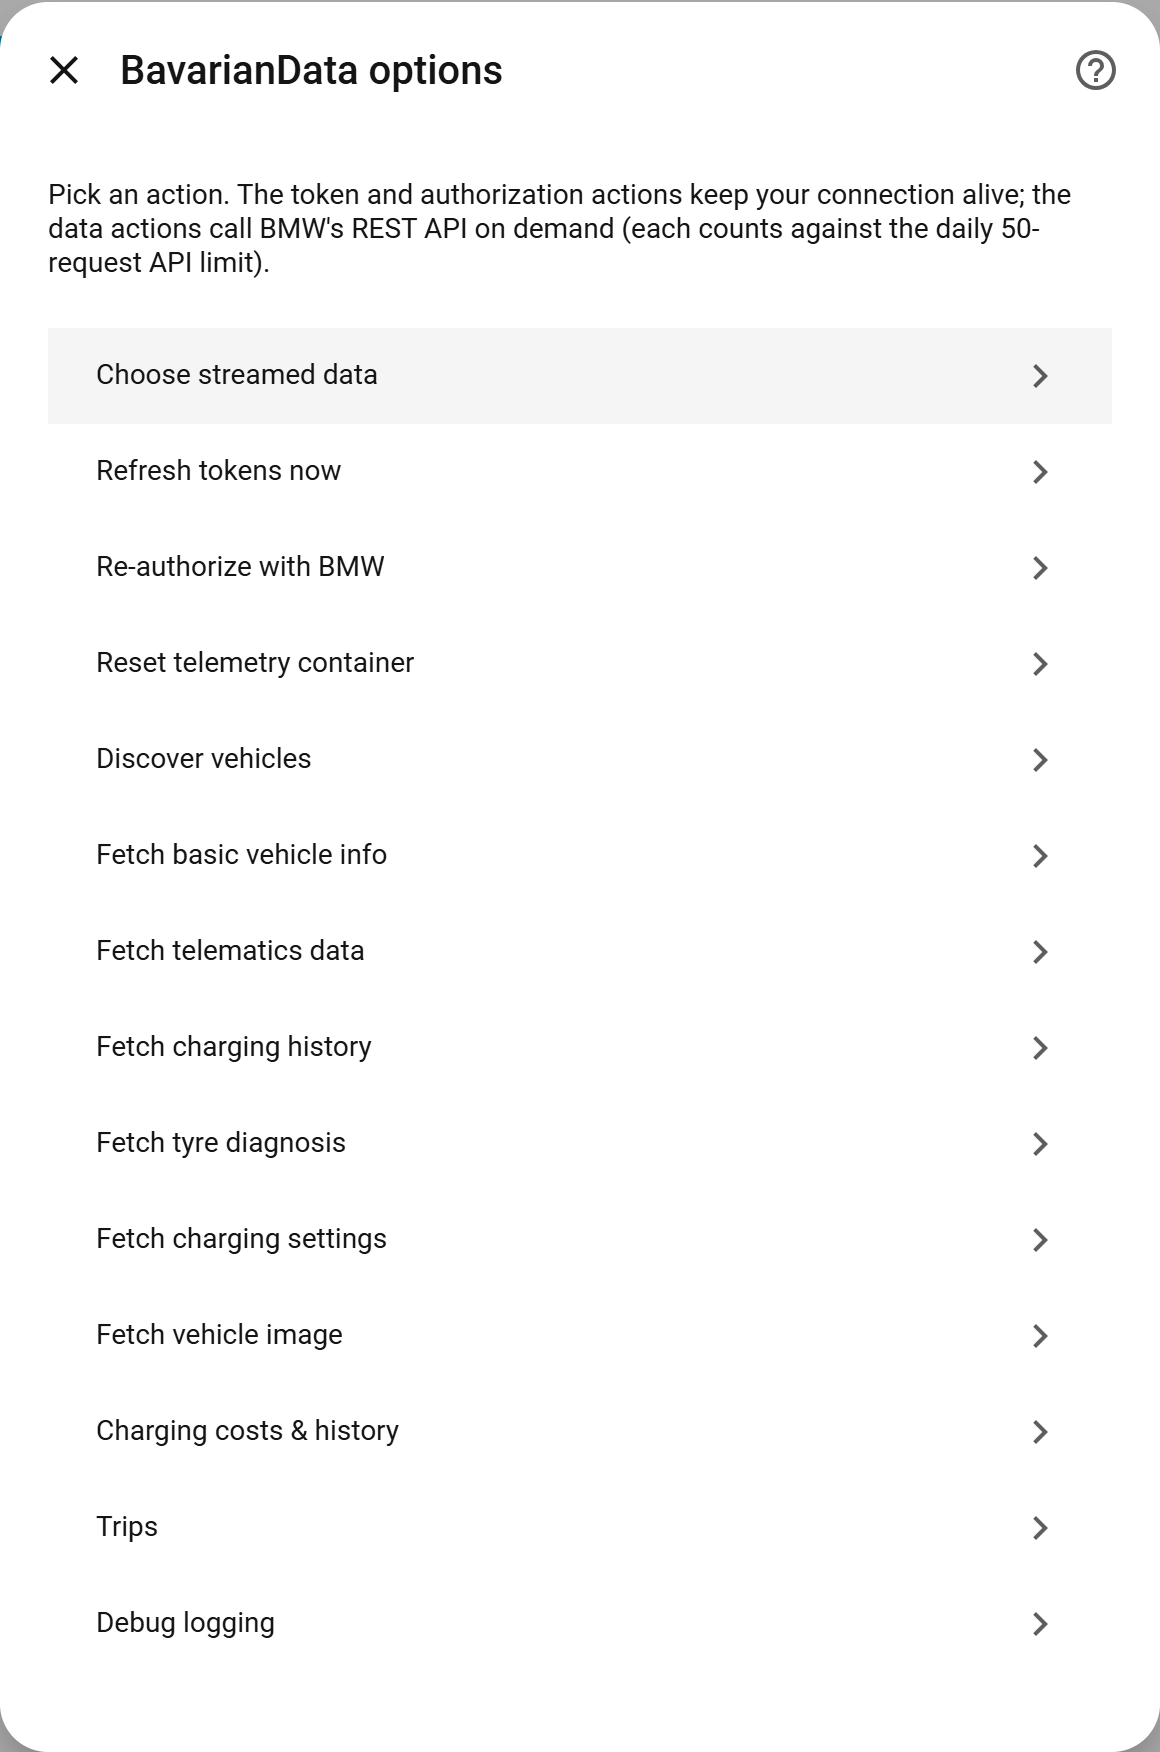
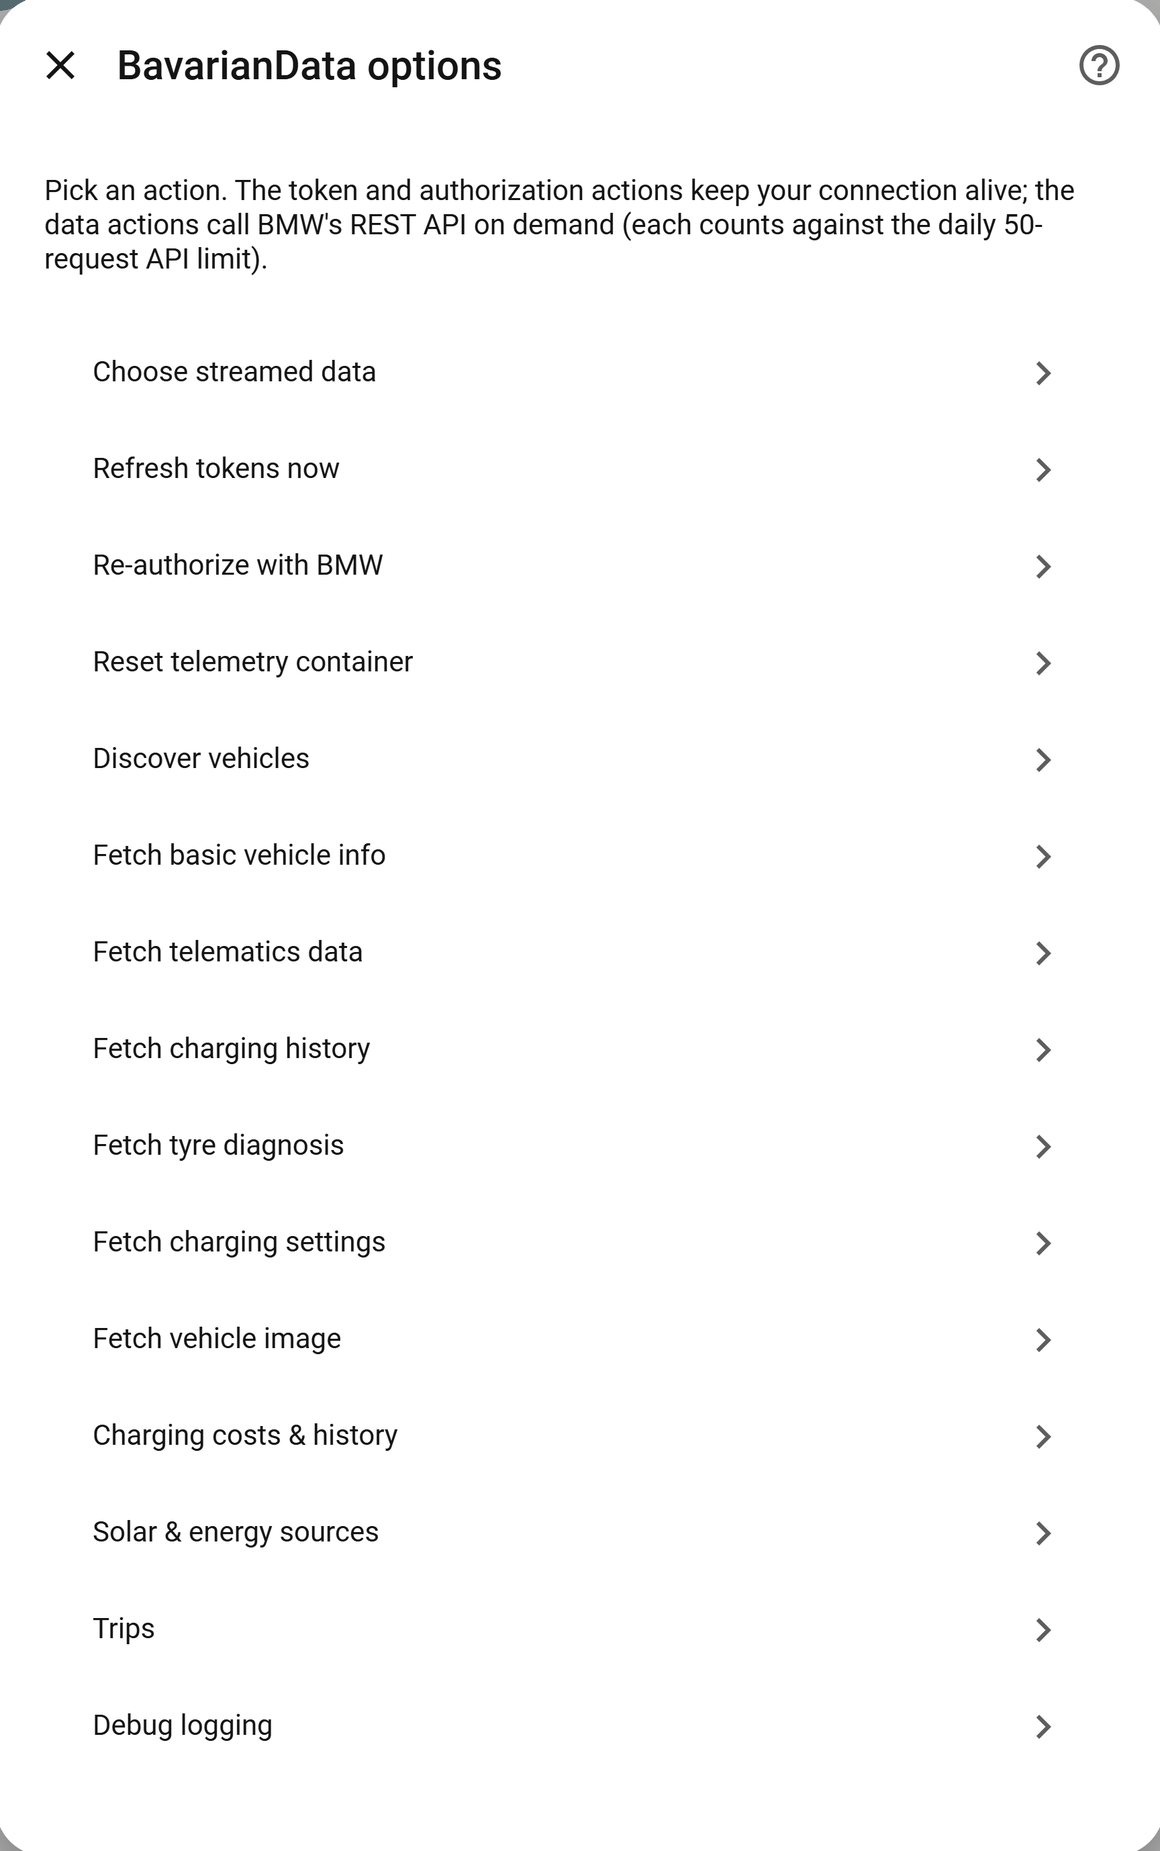
Pre-release v0.9.9-beta.4: whole kilometres, and a range the card can find

diff --git a/custom_components/bavariandata/history/summary.py b/custom_components/bavariandata/history/summary.py
@@ -550,8 +550,14 @@ def driving_summary(
         # Battery-side, from the trips that carried a usable figure -- comparable
         # with the car's own display, and consistent with the per-trip rows.
         "avg_consumption_kwh_per_100km": avg_consumption,
-        # Grid-side, from the charging ledger -- the headline, and the one that
-        # survives a missed drive or a month of nothing but short hops.
+        # From the charging ledger -- the headline, and the one that survives a
+        # missed drive or a month of nothing but short hops. Its side is
+        # whichever the ledger can actually measure (``SIDE_AUTO``): grid when a
+        # measured grid figure exists, battery otherwise, and the ``source`` key
+        # says which. Do not describe it as grid-side -- on an install with no
+        # grid figure it is battery-side, the same quantity the trip average
+        # measures, which is exactly why the card prints the pair only when the
+        # balance really is grid-side.
         "energy_balance": balance,
         "best_trip": _trip_ref(best),
         "worst_trip": _trip_ref(worst),

diff --git a/tools/generate_metadata.py b/tools/generate_metadata.py
@@ -101,6 +101,19 @@ _OVERRIDES: dict[str, tuple[str | None, str | None, str | None]] = {
     # class at all -- leaving the card's gauge to fall back to the *trip-end*
     # SoC, which only moves when a drive finishes (issue #6).
     "vehicle.drivetrain.batteryManagement.header": ("battery", "measurement", "%"),
+    # The remaining range on the car's own display -- the one range figure worth
+    # showing, and the one BMW ships with an empty unit ("Remaining electric
+    # range in km or mi"). Without this it comes out with no unit and no device
+    # class, so the card's range pick -- which filters on device class distance
+    # -- cannot see it at all, and picks one of the two impostors beside it: the
+    # estimate *during charging* or the range at the *target* state of charge.
+    # On this instance it was only classified at all because a restored state
+    # happened to carry "km".
+    "vehicle.drivetrain.electricEngine.kombiRemainingElectricRange": (
+        "distance",
+        "measurement",
+        "km",
+    ),
 }
 
 

diff --git a/custom_components/bavariandata/sensor.py b/custom_components/bavariandata/sensor.py
@@ -140,6 +140,16 @@ class CardataSensor(CardataRestoreSensor):
                 if meta.get("unit"):
                     self._attr_native_unit_of_measurement = meta["unit"]
                     self._fixed_unit = True
+                if (
+                    device_class is SensorDeviceClass.DISTANCE
+                    and meta.get("unit") in ("km", "mi")
+                ):
+                    # BMW streams whole kilometres for every one of these -- a
+                    # range, an odometer, a trip length. Left unsaid, Home
+                    # Assistant stamps two decimals on any convertible unit and
+                    # the card's headline reads "379.00 km", which every user
+                    # then fixes by hand, entity by entity.
+                    self._attr_suggested_display_precision = 0
             elif options:
                 # Enum sensor: translated states come from the translation key.
                 self._attr_device_class = SensorDeviceClass.ENUM

diff --git a/custom_components/bavariandata/descriptor_metadata.py b/custom_components/bavariandata/descriptor_metadata.py
@@ -1970,9 +1970,9 @@ DESCRIPTOR_META: dict[str, dict] = {
     'vehicle.drivetrain.electricEngine.kombiRemainingElectricRange': {
         "section": 'electric',
         "category": 'Range EV',
-        "device_class": None,
-        "state_class": None,
-        "unit": None,
+        "device_class": 'distance',
+        "state_class": 'measurement',
+        "unit": 'km',
         "options": [],
         "entity_category": None,
         "enabled_default": True,

diff --git a/docs/reference/telematics-fields.md b/docs/reference/telematics-fields.md
@@ -236,7 +236,7 @@ Fields are grouped by BMW's own top-level sections. **Default** shows whether th
 | Remaining time estimate | Prognose der verbleibenden Ladezeit | `vehicle.drivetrain.electricEngine.charging.timeRemaining` | min | on | yes | This value indicates the estimated remaining charging time in minutes. |
 | Time to full charge | Berechnete Restladedauer der Hochvoltbatterie | `vehicle.drivetrain.electricEngine.charging.timeToFullyCharged` | min | on | yes | This value indicates the calculated time (in minutes) until the high-voltage battery is fully charged. If a navigation destination has been set, the time rem… |
 | Window selection | Auswahl des günstigsten Ladefensters (Charging Window Selection) | `vehicle.drivetrain.electricEngine.charging.windowSelection` | — | on | yes | Indicates a pre-defined time window in which the high-voltage battery of the vehicle should be charged. The value could be either NOTCHOSEN or CHOSEN. |
-| Remaining range | Verbleibende elektrische Reichweite in km | `vehicle.drivetrain.electricEngine.kombiRemainingElectricRange` | — | on | yes | This value indicates the remaining electric range at the time of data collection. |
+| Remaining range | Verbleibende elektrische Reichweite in km | `vehicle.drivetrain.electricEngine.kombiRemainingElectricRange` | km | on | yes | This value indicates the remaining electric range at the time of data collection. |
 | Estimate during charging | Prognose der elektrischen Reichweite während des Ladevorgangs | `vehicle.drivetrain.electricEngine.remainingElectricRange` | km | on | yes | This value indicates the electric range predicted during charging. |
 | Estimate during charging | Prognose der Gesamtreichweite während des Ladevorgangs | `vehicle.drivetrain.totalRemainingRange` | km | on | yes | This value indicates the total range predicted during charging (total of electric range and combustion engine range). |
 | health state (48V) | Integritätszustand der 48-V-Batterie | `vehicle.electricalSystem.battery48V.stateOfHealth.displayed` | % | on | yes | SoH (State of Health) of the 48V Battery that is shown to the customer. Created to fulfill EU Battery Regulation. |

diff --git a/docs/documentation-plan.md b/docs/documentation-plan.md
@@ -232,8 +232,8 @@ entities (from `tools/derived_entities.json`) need explicit prose:
 | A car that never streams SoC (no arc, no ceiling; issue #6) | 🟢 Feature-Charging-History-and-Cost → "No start/end SoC on a session" |
 | Battery health (learning method, sample rules, why it can stall) | 🟢 Feature-Battery-Health → "What counts as a sample" + "Learning mode" |
 | Restarting mid-charge (session survives; the `interrupted` flag) | 🟢 Feature-Charging-History-and-Cost → "Restarting while the car is charging" + Feature-Battery-Health → "What counts as a sample" |
-| Solar & energy sources (the PV/battery/grid split, what it costs) | 🟡 Feature-Charging-History-and-Cost → "Where the energy came from" + Settings-Reference → "Solar & energy sources" + The-Dashboard-Card — **two screenshots owed**: the new settings screen, and a refreshed Configure menu (it now lists fifteen actions) |
-| Efficiency & real range (the window rule, the two sides of the charger, the measured charging loss) | 🟢 Feature-Efficiency-and-Range — **one screenshot owed**: the `view: efficiency` card |
+| Solar & energy sources (the PV/battery/grid split, what it costs) | 🟢 Feature-Charging-History-and-Cost → "Where the energy came from" + Settings-Reference → "Solar & energy sources" (screen shot 2026-09-12) + The-Dashboard-Card; the Configure menu shot is refreshed to all fifteen actions |
+| Efficiency & real range (the window rule, the two sides of the charger, the measured charging loss) | 🟢 Feature-Efficiency-and-Range + The-Dashboard-Card — the `view: efficiency` card shot 2026-09-12, showing the comparison against the car's own prediction |
 | Trips / Fahrtenbuch (+ legal caveat) | 🟡 |
 | Consumption: plug-side balance, battery-side average, the 3 % SoC gate | 🟢 Feature-Trips → "How consumption is measured" + The-Dashboard-Card |
 | Month window on the trips & charging card views | 🟢 The-Dashboard-Card → "One month at a time" (both views) |

diff --git a/CHANGELOG.md b/CHANGELOG.md
@@ -9,6 +9,28 @@ stable release (v0.8.1); releases before that used auto-generated notes.
 
 ## [Unreleased]
 
+## [0.9.9-beta.4] - 2026-09-12
+
+### Fixed
+- **Distances are whole kilometres again.** Home Assistant stamps two decimals on
+  any sensor whose unit it can convert, so the card's headline read
+  **"379.00 km"** — and the only cure was for every user to set the precision by
+  hand, entity by entity. Ranges, the odometer and the lifetime reference
+  distances now declare whole kilometres, which is the resolution BMW streams
+  them at.
+- **The car's own remaining range is now a properly classified sensor.** BMW
+  ships `kombiRemainingElectricRange` with an empty unit ("Remaining electric
+  range in km or mi"), so it arrived with no unit, no device class and no
+  statistics — and the card's range tile, which looks for a distance, could not
+  see the one range worth showing. It was only classified at all on installs
+  where a restored state happened to carry "km". Now pinned to km / distance /
+  measurement, next to the odometer override that exists for the same reason.
+
+### Changed
+- The month summary's `energy_balance` is documented as what it is: grid-side
+  when a measured grid figure exists, battery-side otherwise, with `source`
+  saying which. It was described in the code as always grid-side.
+
 ## [0.9.9-beta.3] - 2026-09-12
 
 ### Fixed

diff --git a/docs/wiki/Feature-Efficiency-and-Range.md b/docs/wiki/Feature-Efficiency-and-Range.md
@@ -93,6 +93,10 @@ missing: `not_enough_history` or `no_capacity`.
 
 ## Viewing it
 
+<p align="center">
+  <img src="https://raw.githubusercontent.com/JustChr/BavarianData/main/screenshots/wattfried-efficiency.png" alt="Efficiency and range card: real range now at the current charge, how far that is under the car's own prediction, the measured consumption with the side of the charger and the window it used, the usable capacity and where it came from, and a bar chart of consumption by month" width="420" />
+</p>
+
 Use the [`view: efficiency` card](The-Dashboard-Card#efficiency--range-view-efficiency):
 the real range from here, the measured consumption, the charging loss, the
 capacity, your cost per 100 km with the month's solar share, and a bar chart of

diff --git a/docs/wiki/The-Dashboard-Card.md b/docs/wiki/The-Dashboard-Card.md
@@ -134,6 +134,10 @@ type: custom:bavariandata-card
 view: efficiency
 ```
 
+<p align="center">
+  <img src="https://raw.githubusercontent.com/JustChr/BavarianData/main/screenshots/wattfried-efficiency.png" alt="Efficiency and range card: real range now at the current charge, how far that is under the car's own prediction, the measured consumption with the side of the charger and the window it used, the usable capacity and where it came from, and a bar chart of consumption by month" width="360" />
+</p>
+
 It shows the real range from here (and on a full battery), how that compares
 with the car's own remaining-range prediction, the measured consumption with the
 side of the charger and the window it came from, the measured charging loss where

diff --git a/docs/wiki/Settings-Reference.md b/docs/wiki/Settings-Reference.md
@@ -64,6 +64,10 @@ Screen: **Configure → Solar & energy sources**. See
 [Charging history & cost → Where the energy came from](Feature-Charging-History-and-Cost)
 for what it does with these.
 
+<p align="center">
+  <img src="https://raw.githubusercontent.com/JustChr/BavarianData/main/screenshots/bavariandata-solar-sources.png" alt="Solar and energy sources settings: PV power, grid power, optional house battery power, a switch for batteries that report positive while charging, and the value of your own solar per kWh" width="460" />
+</p>
+
 | Option | Values | Meaning |
 | --- | --- | --- |
 | **PV power** | sensor (power) | Total generation from your inverter(s). Required for any attribution. |
